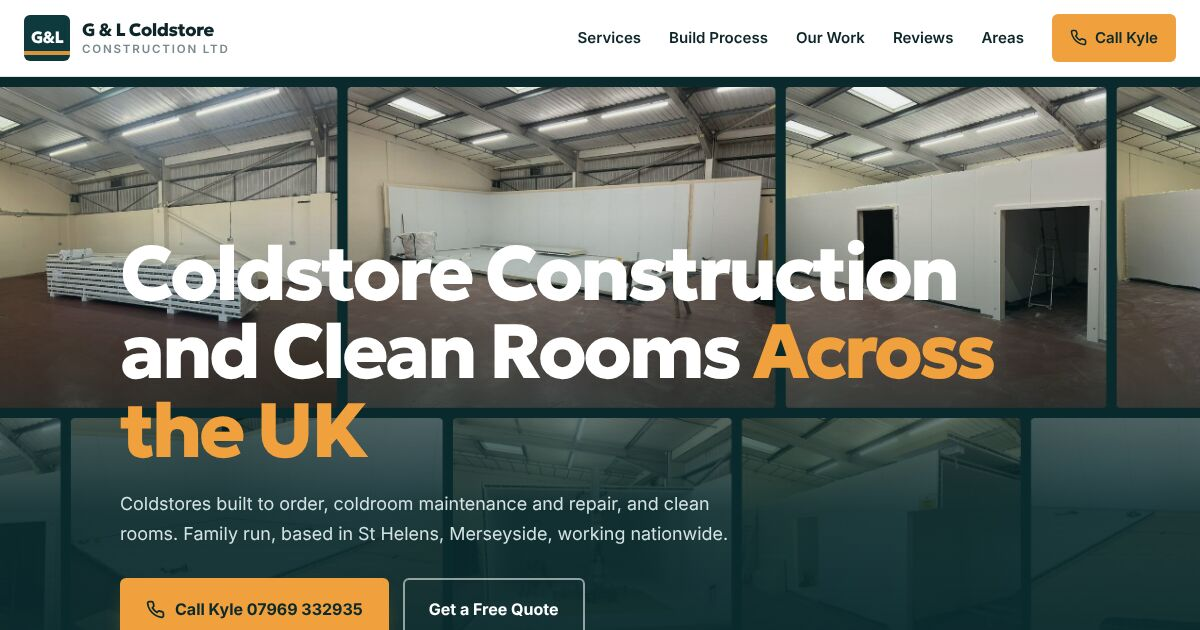
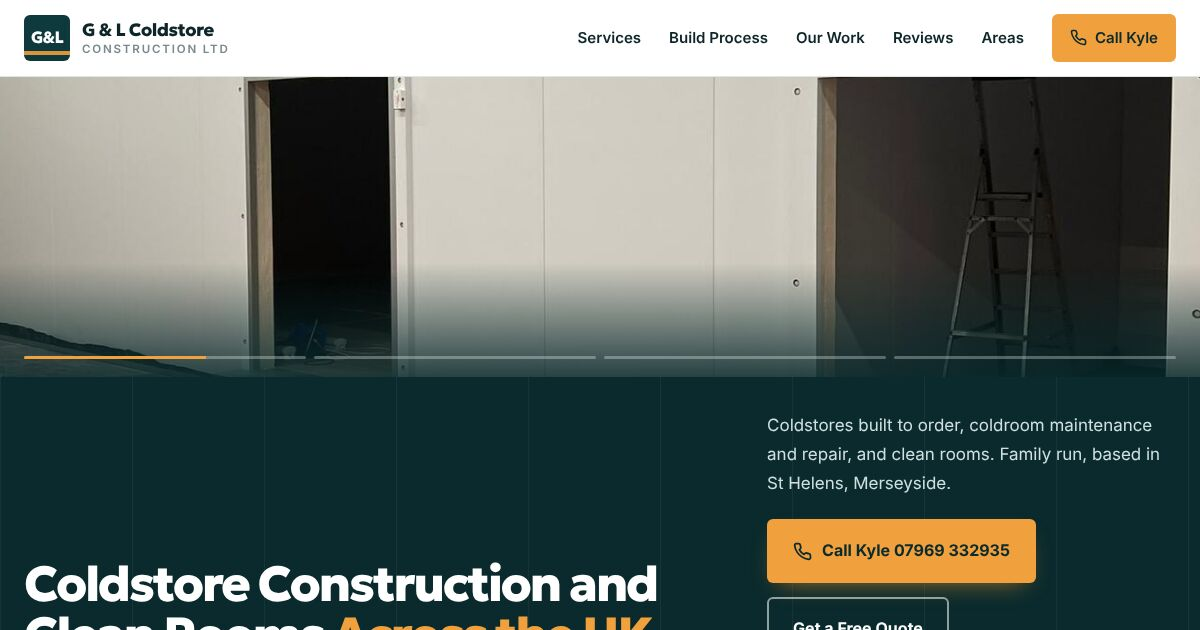
G & L Coldstore Construction: rebuild mockup B, restore ledger cleanup
B rebuilt on the current MOTION ROLL after master moved mid-build: the first B (marquee hero, gallery-fold) repeated Groundworks North West B.

SEED - G & L Coldstore Construction Ltd, St Helens (B)
Copy of A: same palette, Geologica / Inter, copy, sections and PANEL LOCK loader.
Hero:      crossfade, photo-first: four own build photos dissolve every 4.8s with a slow push-in and story bars, the big white keyword H1 and Call Kyle on a spruce panel under the photo
Bits:      pinned-steps (build process photo and step swap while pinned), trade-moment CAM LOCKED (insulated panels slide together, cam lock turns, frost forms on the cold side)
Ledger ok: crossfade + pinned-steps + trade-moment; photo-first clear of the last 5

Ledger: drop the light-speed-utilities-b and cutmate-b entries brought back by the previous publish of this job.

diff --git a/gl-coldstore-construction-b/index.html b/gl-coldstore-construction-b/index.html
@@ -125,32 +125,6 @@ html.ld #loader{display:flex}
 .hero-copy h1{animation-delay:.1s}.hero-copy p{animation-delay:.25s}.hero-copy .hero-ctas{animation-delay:.4s}
 html.ld .hero-copy > *{animation-play-state:paused}
 
-/* the coldstore doorway */
-.doorway{position:relative;height:100%;min-height:0;display:flex;flex-direction:column}
-.rail{height:16px;margin:0 -26px 0 0;border-radius:3px;background:linear-gradient(#fdfefe,#c6cfd3 55%,#9aa6ab);box-shadow:0 2px 0 rgba(15,38,41,.12);position:relative;z-index:3}
-.rail:before,.rail:after{content:"";position:absolute;top:4px;width:8px;height:8px;border-radius:50%;background:#7f8d92}
-.rail:before{left:18%}.rail:after{left:78%}
-.opening{position:relative;flex:1;min-height:0;border:12px solid #fff;outline:1px solid var(--line2);box-shadow:0 30px 60px -36px rgba(14,58,62,.55),inset 0 0 0 1px var(--line);border-radius:4px;overflow:hidden;background:var(--spruce2)}
-.opening img{width:100%;height:100%;object-fit:cover;transform:scale(1.08);transition:transform 2.4s cubic-bezier(.2,.7,.2,1) .2s}
-.door{position:absolute;inset:0;z-index:2;transform:translateX(0);transition:transform 1.5s cubic-bezier(.65,0,.25,1);
-  background:
-   linear-gradient(90deg,rgba(255,255,255,.0) 0,rgba(255,255,255,.35) 18%,rgba(255,255,255,0) 40%,rgba(255,255,255,.25) 72%,rgba(255,255,255,0) 100%),
-   repeating-linear-gradient(90deg,#e9edef 0 2px,#dfe5e8 2px 3px,#e6eaec 3px 5px),
-   #e4e9eb;border-left:1px solid #b8c2c6}
-.door:before{content:"";position:absolute;left:0;right:0;bottom:0;height:24%;border-top:2px solid #b4bec2;
-  background:
-   repeating-linear-gradient(45deg,transparent 0 9px,rgba(120,134,140,.45) 9px 11px,transparent 11px 20px),
-   repeating-linear-gradient(-45deg,transparent 0 9px,rgba(255,255,255,.55) 9px 11px,transparent 11px 20px),
-   linear-gradient(#cfd6d9,#b9c2c6)}
-.door .handle{position:absolute;left:22px;top:30%;width:12px;height:30%;border-radius:6px;background:linear-gradient(90deg,var(--amber-h),var(--amber) 45%,#ffc77d);box-shadow:3px 4px 10px -3px rgba(0,0,0,.35)}
-.door .seal{position:absolute;left:0;top:0;bottom:0;width:7px;background:#2c3a3d}
-.mist{position:absolute;left:-10%;right:-10%;bottom:-8%;height:40%;z-index:1;pointer-events:none;opacity:0;
-  background:radial-gradient(ellipse at 30% 80%,rgba(255,255,255,.75),transparent 60%),radial-gradient(ellipse at 70% 90%,rgba(255,255,255,.6),transparent 55%)}
-.hero.open .door{transform:translateX(90%)}
-.hero.open .opening img{transform:scale(1)}
-.hero.open .mist{animation:mist 3.2s .5s ease-out forwards}
-@keyframes mist{0%{opacity:0;transform:translateX(-12%) scaleY(.6)}35%{opacity:.85}100%{opacity:0;transform:translateX(10%) scaleY(1.15)}}
-
 /* trust */
 .trust{border-bottom:1px solid var(--line);background:#fff}
 .trust-in{display:grid;grid-template-columns:repeat(5,1fr);padding-top:26px;padding-bottom:26px}
@@ -282,51 +256,98 @@ footer a:hover{color:var(--amber)}
 .reveal{opacity:0;transform:translateY(30px);transition:opacity .7s,transform .7s}
 .reveal.in{opacity:1;transform:none}
 
-/* B hero: full bleed marquee of their build */
-.bhero{position:relative;min-height:calc(100svh - 76px);display:flex;flex-direction:column;justify-content:flex-end;overflow:hidden;background:var(--spruce2)}
-.mq{position:absolute;inset:0;display:flex;flex-direction:column;gap:10px;padding-top:10px}
-.mq-row{flex:1;min-height:0;overflow:hidden}
-.mq-track{display:flex;gap:10px;height:100%;width:max-content;animation:mqL 70s linear infinite}
-.r2 .mq-track{animation-name:mqR;animation-duration:80s}
-.mq-track i{height:100%;flex:0 0 auto;border-radius:4px;overflow:hidden}
-.mq-track img{height:100%;width:auto;display:block}
-.mq.paused .mq-track{animation-play-state:paused}
-html.ld .mq-track{animation-play-state:paused}
-@keyframes mqL{from{transform:translateX(0)}to{transform:translateX(-50%)}}
-@keyframes mqR{from{transform:translateX(-50%)}to{transform:translateX(0)}}
-.mq{opacity:0;transform:scale(1.06);transition:opacity 1s,transform 1.6s cubic-bezier(.2,.7,.2,1)}
-.bhero.open .mq{opacity:1;transform:none}
-.bh-shade{position:absolute;inset:0;pointer-events:none;background:linear-gradient(to top,#0a2a2d 0%,rgba(10,42,45,.9) 30%,rgba(10,42,45,.5) 52%,rgba(10,42,45,.12) 78%,rgba(10,42,45,.05) 100%)}
-.bh-copy{position:relative;z-index:2;padding-top:120px;padding-bottom:56px}
-.bh-copy h1{color:#fff;font-size:clamp(2.6rem,6.4vw,6rem);letter-spacing:-.045em;line-height:1.02;max-width:12.5em;margin-bottom:20px}
+/* ===== B: photo-first crossfade hero ===== */
+.bhero{background:var(--spruce2);display:flex;flex-direction:column}
+.xf{position:relative;height:max(300px,calc(100vh - 76px - 320px));overflow:hidden;background:var(--spruce2)}
+.xf img{position:absolute;inset:0;width:100%;height:100%;object-fit:cover;opacity:0;transform:scale(1.12);transition:opacity 1.3s ease}
+.xf img.on{opacity:1;animation:push 7s linear forwards}
+@keyframes push{from{transform:scale(1.12)}to{transform:scale(1)}}
+html.ld .xf img.on{animation-play-state:paused}
+.xf-shade{position:absolute;inset:0;background:linear-gradient(to top,rgba(10,42,45,.85),rgba(10,42,45,0) 38%);pointer-events:none}
+.xf-bars{position:absolute;left:0;right:0;bottom:18px;display:flex;gap:8px;max-width:1220px;margin:0 auto;padding:0 24px}
+.xf-bars i{flex:1;height:3px;background:rgba(255,255,255,.3);border-radius:2px;overflow:hidden;position:relative}
+.xf-bars i:after{content:"";position:absolute;inset:0;background:var(--amber);transform:scaleX(0);transform-origin:left}
+.xf-bars i.done:after{transform:none}
+.xf-bars i.on:after{animation:bar 4.8s linear forwards}
+html.ld .xf-bars i.on:after{animation-play-state:paused}
+@keyframes bar{to{transform:none}}
+.bh-panel{background:var(--spruce2);position:relative}
+.bh-panel:before{content:"";position:absolute;inset:0;background-image:linear-gradient(90deg,rgba(255,255,255,.05) 0 1px,transparent 1px);background-size:132px 100%;pointer-events:none}
+.bh-copy{position:relative;display:grid;grid-template-columns:1.7fr 1fr;gap:48px;align-items:end;padding-top:34px;padding-bottom:40px}
+.bh-copy h1{color:#fff;font-size:clamp(2.4rem,4.1vw,4rem);letter-spacing:-.045em;line-height:1.02}
 .bh-copy h1 .ac{color:var(--amber)}
-.bh-copy p{color:#d3e3e4;font-size:1.12rem;max-width:36em;margin-bottom:28px}
-.bh-copy > *{opacity:0;transform:translateY(26px);animation:fadeUp .8s forwards}
-.bh-copy h1{animation-delay:.1s}.bh-copy p{animation-delay:.3s}.bh-copy .hero-ctas{animation-delay:.45s}
+.bh-side p{color:#cfe0e1;margin-bottom:22px;font-size:1.06rem}
+.bh-copy > *{opacity:0;transform:translateY(24px);animation:fadeUp .8s forwards}
+.bh-copy .bh-side{animation-delay:.25s}
 html.ld .bh-copy > *{animation-play-state:paused}
-@media (min-width:881px){.bhero{min-height:max(86vh,620px)}.mq-row:first-child{flex:1.15}}
+/* ===== B: trade moment CAM LOCKED ===== */
+.tm{background:#fff;padding-top:70px;padding-bottom:10px}
+.tm-stage{position:relative;max-width:760px;margin:0 auto;padding:30px 0}
+.tm-panels{position:relative;height:84px}
+.tp{position:absolute;top:0;height:84px;width:50%;background:
+  linear-gradient(#dfe5e8 0 7px,transparent 7px calc(100% - 7px),#dfe5e8 calc(100% - 7px)),
+  radial-gradient(circle at 30% 40%,rgba(255,255,255,.35) 0 2px,transparent 2.5px) 0 0/14px 12px,
+  radial-gradient(circle at 70% 70%,rgba(154,90,11,.18) 0 2px,transparent 2.5px) 0 0/18px 16px,
+  linear-gradient(#f6c27a,#f0a03c)}
+.tp-l{left:0;border-radius:4px 0 0 4px;transform:translateX(-26%);transition:transform 1s cubic-bezier(.3,1.1,.4,1)}
+.tp-r{right:0;border-radius:0 4px 4px 0;transform:translateX(26%);transition:transform 1s cubic-bezier(.3,1.1,.4,1)}
+.tongue{position:absolute;right:-14px;top:26px;width:14px;height:32px;background:linear-gradient(#f6c27a,#f0a03c);border-radius:0 3px 3px 0}
+.groove{position:absolute;left:0;top:26px;width:14px;height:32px;background:#e4ebed;border-radius:0 3px 3px 0}
+.tm.go .tp-l,.tm.go .tp-r{transform:none}
+.cam{position:absolute;left:50%;top:50%;width:34px;height:34px;margin:-17px 0 0 -17px;border-radius:50%;background:var(--spruce);box-shadow:0 0 0 4px #fff;opacity:0;transform:scale(.4);transition:opacity .3s 1s,transform .35s 1s}
+.cam i{position:absolute;left:50%;top:50%;width:22px;height:5px;margin:-2.5px 0 0 -11px;background:var(--amber);border-radius:3px;transform:rotate(-90deg);transition:transform .45s 1.35s cubic-bezier(.4,1.6,.5,1)}
+.tm.go .cam{opacity:1;transform:none}
+.tm.go .cam i{transform:rotate(0)}
+.frost{height:14px;margin-top:6px;border-radius:3px;background:
+  radial-gradient(circle,#ffffff 0 1.5px,transparent 2px) 0 0/9px 7px,
+  linear-gradient(90deg,#cfe9f3,#e9f6fb 50%,#cfe9f3);clip-path:inset(0 100% 0 0);transition:clip-path 1.4s cubic-bezier(.4,0,.2,1) 1.8s}
+.tm.go .frost{clip-path:inset(0 0 0 0)}
+.tm-lab{display:block;font-size:.76rem;font-weight:700;letter-spacing:.16em;text-transform:uppercase;color:var(--muted);margin-bottom:10px}
+.tm-cold{margin:10px 0 0;text-align:right;color:#3f7d93}
+.tm-cap{text-align:center;color:var(--head);font-family:var(--disp);font-weight:700;font-size:1.15rem;margin-top:22px}
+/* ===== B: pinned steps ===== */
+.pin-wrap{height:340vh;position:relative}
+.pin{position:sticky;top:76px;height:calc(100vh - 76px);display:flex;align-items:center;overflow:hidden}
+.pin-grid{display:grid;grid-template-columns:.9fr 1.1fr;gap:56px;align-items:center;width:100%}
+.pin-text h2{margin-bottom:26px}
+.pin-list{list-style:none;display:grid;gap:6px}
+.pin-list li{display:flex;gap:16px;padding:14px 16px;border-radius:8px;opacity:.45;transition:opacity .4s,background .4s}
+.pin-list li.on{opacity:1;background:#fff;box-shadow:0 14px 30px -24px rgba(14,58,62,.5)}
+.pin-list .num{flex:0 0 36px;height:36px;border-radius:50%;background:var(--line);color:var(--head);display:grid;place-items:center;font-family:var(--disp);font-weight:800;transition:background .4s}
+.pin-list li.on .num{background:var(--amber);color:var(--spruce2)}
+.pin-list h3{margin-bottom:2px}
+.pin-list p{font-size:.95rem}
+.pin-bar{height:3px;background:var(--line);margin-top:18px;border-radius:2px;overflow:hidden}
+.pin-bar i{display:block;height:100%;background:var(--amber);transform:scaleX(0);transform-origin:left}
+.pin-figs{position:relative;aspect-ratio:4/3;border-radius:8px;overflow:hidden;border:1px solid var(--line);background:var(--spruce)}
+.pin-figs img{position:absolute;inset:0;width:100%;height:100%;object-fit:cover;opacity:0;transform:scale(1.06);transition:opacity .6s,transform 1.2s}
+.pin-figs img.on{opacity:1;transform:none}
+.rm-steps{display:none}
 @media (max-width:880px){
-  .mq{bottom:auto;gap:8px;padding-top:8px}
-  .mq-row{flex:none;height:min(30svh,230px)}
-  .mq-track{gap:8px}
+  .bh-copy{grid-template-columns:1fr;gap:16px;padding-top:24px;padding-bottom:40px}
+  .xf{height:min(46svh,420px)}
+  .pin-grid{grid-template-columns:1fr;gap:16px}
+  .pin-text{display:contents}
+  .pin-text h2{order:0;margin-bottom:0;font-size:1.75rem}
+  .pin-figs{order:1;aspect-ratio:16/11}
+  .pin-list{order:2}
+  .pin-bar{order:3;margin-top:4px}
+  .pin-list li{display:none;padding:4px 0;background:none!important;box-shadow:none!important}
+  .pin-list li.on{display:flex}
 }
 @media (max-width:560px){
-  .bh-copy{padding-top:90px;padding-bottom:36px}
-  .bh-copy h1{font-size:2.55rem}
-  .bh-copy p{font-size:1rem;line-height:1.6;margin-bottom:22px}
-  .hero-ctas .btn{padding:14px 20px}
+  .bh-copy h1{font-size:2.3rem}
+  .bh-side p{font-size:1rem;line-height:1.6;margin-bottom:18px}
+  .tm{padding-top:50px}
+  .tm-panels,.tp{height:64px}
+  .tongue,.groove{top:18px;height:28px;width:12px}
+  .tongue{right:-12px}
 }
-/* bit: tilt cards */
-.svc-grid{perspective:1100px}
-.svc.tilt{transition:transform .12s ease-out,box-shadow .25s;will-change:transform}
-.svc.tilt .svc-media img,.svc.tilt .svc-media svg{transition:transform .12s ease-out}
-/* bit: photo stack gallery */
-.gal .gi{transition:transform .9s cubic-bezier(.2,.8,.2,1),opacity .5s;position:relative}
-.gal.stacked .gi{transform:translate(var(--sx),var(--sy)) rotate(var(--sr));}
-.gal.stacked .gi figcaption{opacity:0}
-.gi figcaption{transition:opacity .5s .6s}
-.gal .gi figure{box-shadow:0 18px 30px -22px rgba(10,42,45,.6);background:#fff}
-@media (prefers-reduced-motion:reduce){.mq{opacity:1;transform:none}.gal.stacked .gi{transform:none}.gal.stacked .gi figcaption{opacity:1}.bh-copy > *{opacity:1;transform:none}}
+@media (prefers-reduced-motion:reduce){
+  .pin-wrap{display:none}.rm-steps{display:block}
+  .tp-l,.tp-r{transform:none}.cam{opacity:1;transform:none}.cam i{transform:none}.frost{clip-path:none}
+  .bh-copy > *{opacity:1;transform:none}
+}
 
 @media (max-width:1080px){
   .svc-grid{grid-template-columns:1fr 1fr}
@@ -412,17 +433,24 @@ html.ld .bh-copy > *{animation-play-state:paused}
 
 <main>
 <section class="bhero" id="hero">
-  <div class="mq" id="mq" aria-hidden="true">
-    <div class="mq-row r1"><div class="mq-track"><i><img src="mq-1.jpg" alt=""></i><i><img src="mq-2.jpg" alt=""></i><i><img src="mq-3.jpg" alt=""></i><i><img src="mq-4.jpg" alt=""></i><i><img src="mq-5.jpg" alt=""></i><i><img src="mq-1.jpg" alt=""></i><i><img src="mq-2.jpg" alt=""></i><i><img src="mq-3.jpg" alt=""></i><i><img src="mq-4.jpg" alt=""></i><i><img src="mq-5.jpg" alt=""></i></div></div>
-    <div class="mq-row r2"><div class="mq-track"><i><img src="mq-6.jpg" alt=""></i><i><img src="mq-7.jpg" alt=""></i><i><img src="mq-8.jpg" alt=""></i><i><img src="mq-9.jpg" alt=""></i><i><img src="mq-3.jpg" alt=""></i><i><img src="mq-6.jpg" alt=""></i><i><img src="mq-7.jpg" alt=""></i><i><img src="mq-8.jpg" alt=""></i><i><img src="mq-9.jpg" alt=""></i><i><img src="mq-3.jpg" alt=""></i></div></div>
+  <div class="xf" id="xf">
+    <img class="on" src="work-1.jpg" alt="Finished G &amp; L coldstore walls with two framed door openings" fetchpriority="high">
+    <img src="svc-coldstore.jpg" alt="Coldstore with wall panels up and ceiling panels going on" loading="lazy">
+    <img src="step-3.jpg" alt="White insulated wall panels standing around the coldstore floor" loading="lazy">
+    <img src="hero.jpg" alt="Inside a finished G &amp; L coldstore" loading="lazy">
+    <div class="xf-shade" aria-hidden="true"></div>
+    <div class="xf-bars" aria-hidden="true"><i class="on"></i><i></i><i></i><i></i></div>
   </div>
-  <div class="bh-shade" aria-hidden="true"></div>
-  <div class="wrap bh-copy">
-    <h1>Coldstore Construction and Clean Rooms <span class="ac">Across the UK</span></h1>
-    <p>Coldstores built to order, coldroom maintenance and repair, and clean rooms. Family run, based in St Helens, Merseyside, working nationwide.</p>
-    <div class="hero-ctas" id="heroCtas">
-      <a class="btn btn-amber js-call" href="#"><svg viewBox="0 0 24 24" fill="none" stroke="#0a2a2d" stroke-width="2.2" stroke-linecap="round" stroke-linejoin="round"><path d="M22 16.9v3a2 2 0 0 1-2.2 2 19.8 19.8 0 0 1-8.6-3.1 19.5 19.5 0 0 1-6-6A19.8 19.8 0 0 1 2.1 4.2 2 2 0 0 1 4.1 2h3a2 2 0 0 1 2 1.7c.1.9.4 1.8.7 2.7a2 2 0 0 1-.5 2.1L8 9.8a16 16 0 0 0 6 6l1.3-1.3a2 2 0 0 1 2.1-.5c.9.3 1.8.6 2.7.7a2 2 0 0 1 1.7 2z"/></svg><span class="js-phone">Call Kyle</span></a>
-      <a class="btn btn-ghost" href="#contact">Get a Free Quote</a>
+  <div class="bh-panel">
+    <div class="wrap bh-copy">
+      <h1>Coldstore Construction and Clean Rooms <span class="ac">Across the UK</span></h1>
+      <div class="bh-side">
+        <p>Coldstores built to order, coldroom maintenance and repair, and clean rooms. Family run, based in St Helens, Merseyside.</p>
+        <div class="hero-ctas" id="heroCtas">
+          <a class="btn btn-amber js-call" href="#"><svg viewBox="0 0 24 24" fill="none" stroke="#0a2a2d" stroke-width="2.2" stroke-linecap="round" stroke-linejoin="round"><path d="M22 16.9v3a2 2 0 0 1-2.2 2 19.8 19.8 0 0 1-8.6-3.1 19.5 19.5 0 0 1-6-6A19.8 19.8 0 0 1 2.1 4.2 2 2 0 0 1 4.1 2h3a2 2 0 0 1 2 1.7c.1.9.4 1.8.7 2.7a2 2 0 0 1-.5 2.1L8 9.8a16 16 0 0 0 6 6l1.3-1.3a2 2 0 0 1 2.1-.5c.9.3 1.8.6 2.7.7a2 2 0 0 1 1.7 2z"/></svg><span class="js-phone">Call Kyle</span></a>
+          <a class="btn btn-ghost" href="#contact">Get a Free Quote</a>
+        </div>
+      </div>
     </div>
   </div>
 </section>
@@ -437,11 +465,27 @@ html.ld .bh-copy > *{animation-play-state:paused}
   </div>
 </section>
 
+<section class="tm" aria-label="Insulated panels cam locked together">
+  <div class="wrap">
+    <div class="tm-stage" id="tm">
+      <span class="tm-lab tm-warm">Warm side</span>
+      <div class="tm-panels">
+        <div class="tp tp-l"><i class="tongue"></i></div>
+        <div class="tp tp-r"><i class="groove"></i></div>
+        <div class="cam"><i></i></div>
+      </div>
+      <div class="frost"></div>
+      <span class="tm-lab tm-cold">Cold side</span>
+    </div>
+    <p class="tm-cap">Insulated panels cam locked together at every joint.</p>
+  </div>
+</section>
+
 <section id="services" class="sec" style="padding-bottom:40px">
   <div class="wrap">
     <h2 class="reveal">Coldstore and Clean Room <span class="ac">Services</span></h2>
     <div class="svc-grid">
-      <article class="svc tilt reveal">
+      <article class="svc reveal">
         <div class="svc-media"><img src="svc-coldstore.jpg" alt="Coldstore under construction with wall panels up and ceiling panels being fitted" loading="lazy"></div>
         <div class="svc-body">
           <h3>Coldstore Design and Construction</h3>
@@ -449,7 +493,7 @@ html.ld .bh-copy > *{animation-play-state:paused}
           <ul><li>Chiller rooms</li><li>Freezer rooms</li><li>Insulated panel builds</li></ul>
         </div>
       </article>
-      <article class="svc tilt reveal">
+      <article class="svc reveal">
         <div class="svc-media svc-panel"><svg viewBox="0 0 80 80" fill="none" stroke="#f0a03c" stroke-width="3.4" stroke-linecap="round" stroke-linejoin="round"><path d="M52 14a14 14 0 0 0-17 17L14 52a6 6 0 0 0 8.5 8.5L43.5 39.5A14 14 0 0 0 61 22l-8 8-8-2-2-8z"/><path d="M58 50v16M50 58h16" stroke="#ffffff"/></svg></div>
         <div class="svc-body">
           <h3>Coldroom Maintenance and Repair</h3>
@@ -457,7 +501,7 @@ html.ld .bh-copy > *{animation-play-state:paused}
           <ul><li>Maintenance checks</li><li>Prompt repairs</li><li>Existing coldrooms</li></ul>
         </div>
       </article>
-      <article class="svc tilt reveal">
+      <article class="svc reveal">
         <div class="svc-media svc-panel"><svg viewBox="0 0 80 80" fill="none" stroke="#f0a03c" stroke-width="3.4" stroke-linecap="round" stroke-linejoin="round"><rect x="14" y="14" width="52" height="52" rx="3"/><path d="M14 30h52" stroke="#ffffff"/><path d="M24 22h4M34 22h4M44 22h4" stroke="#ffffff"/><path d="M30 66V44h20v22"/></svg></div>
         <div class="svc-body">
           <h3>Clean Rooms</h3>
@@ -479,9 +523,21 @@ html.ld .bh-copy > *{animation-play-state:paused}
   </div>
 </section>
 
-<section id="process" class="sec stone">
-  <div class="wrap">
-    <h2 class="reveal">Coldstore Build <span class="ac">Process</span></h2>
+<section id="process" class="stone">
+  <div class="pin-wrap" id="pinWrap">
+    <div class="pin">
+      <div class="wrap pin-grid">
+        <div class="pin-text">
+          <h2>Coldstore Build <span class="ac">Process</span></h2>
+          <ol class="pin-list" id="pinList"><li class="on"><span class="num">1</span><div><h3>Panel Delivery</h3><p>Insulated wall and ceiling panels delivered and stacked in the unit.</p></div></li><li><span class="num">2</span><div><h3>Floor Insulation</h3><p>Insulation boards laid across the floor and floor panels set out.</p></div></li><li><span class="num">3</span><div><h3>Wall Panels</h3><p>Wall panels stood up and locked together around the floor.</p></div></li><li><span class="num">4</span><div><h3>Ceiling Panels</h3><p>Ceiling panels lifted into place and the room closed in.</p></div></li></ol>
+          <div class="pin-bar"><i id="pinBar"></i></div>
+        </div>
+        <div class="pin-figs" id="pinFigs"><img src="step-1.jpg" alt="Insulated panels stacked on pallets inside an empty warehouse unit" loading="lazy" class="on"><img src="step-2.jpg" alt="Floor insulation boards laid out with the first white floor panels in place" loading="lazy"><img src="step-3.jpg" alt="White insulated wall panels standing around the new coldstore floor" loading="lazy"><img src="step-4.jpg" alt="Panel lift inside the coldstore with the ceiling panels fitted" loading="lazy"></div>
+      </div>
+    </div>
+  </div>
+  <div class="sec rm-steps"><div class="wrap">
+    
     <div class="steps">
       <div class="step reveal"><span class="num">1</span><figure><img src="step-1.jpg" alt="Insulated panels stacked on pallets inside an empty warehouse unit" loading="lazy"></figure><h3>Panel Delivery</h3><p>Insulated wall and ceiling panels delivered and stacked in the unit.</p></div>
       <div class="step reveal"><span class="num">2</span><figure><img src="step-2.jpg" alt="Floor insulation boards laid out with the first white floor panels in place" loading="lazy"></figure><h3>Floor Insulation</h3><p>Insulation boards laid across the floor and floor panels set out.</p></div>
@@ -489,16 +545,17 @@ html.ld .bh-copy > *{animation-play-state:paused}
       <div class="step reveal"><span class="num">4</span><figure><img src="step-4.jpg" alt="Panel lift inside the coldstore with the ceiling panels fitted" loading="lazy"></figure><h3>Ceiling Panels</h3><p>Ceiling panels lifted into place and the room closed in.</p></div>
     </div>
   </div>
+</div>
 </section>
 
 <section id="work" class="sec">
   <div class="wrap">
     <h2 class="reveal">Recent Coldstore <span class="ac">Work</span></h2>
-    <div class="gal" id="gal">
-      <div class="gi"><figure><img src="work-1.jpg" alt="Finished coldstore walls with two framed door openings" loading="lazy"></figure><figcaption>Wall panels with framed door openings</figcaption></div>
-      <div class="gi"><figure><img src="work-2.jpg" alt="Coldstore enclosure with ceiling panels and a door opening" loading="lazy"></figure><figcaption>Enclosure with ceiling panels on</figcaption></div>
-      <div class="gi"><figure><img src="work-3.jpg" alt="Floor insulation boards being set out inside the coldstore" loading="lazy"></figure><figcaption>Floor insulation being set out</figcaption></div>
-      <div class="gi"><figure><img src="work-4.jpg" alt="Coldroom with a sliding door and chequer plate wall protection" loading="lazy"></figure><figcaption>Coldroom with sliding door and chequer plate</figcaption></div>
+    <div class="gal">
+      <div class="gi reveal"><figure><img src="work-1.jpg" alt="Finished coldstore walls with two framed door openings" loading="lazy"></figure><figcaption>Wall panels with framed door openings</figcaption></div>
+      <div class="gi reveal"><figure><img src="work-2.jpg" alt="Coldstore enclosure with ceiling panels and a door opening" loading="lazy"></figure><figcaption>Enclosure with ceiling panels on</figcaption></div>
+      <div class="gi reveal"><figure><img src="work-3.jpg" alt="Floor insulation boards being set out inside the coldstore" loading="lazy"></figure><figcaption>Floor insulation being set out</figcaption></div>
+      <div class="gi reveal"><figure><img src="work-4.jpg" alt="Coldroom with a sliding door and chequer plate wall protection" loading="lazy"></figure><figcaption>Coldroom with sliding door and chequer plate</figcaption></div>
     </div>
   </div>
 </section>
@@ -616,11 +673,6 @@ html.ld .bh-copy > *{animation-play-state:paused}
   var rm = window.matchMedia('(prefers-reduced-motion: reduce)').matches;
   var ld = document.getElementById('loader'), hero = document.getElementById('hero');
   function openDoor(){ hero.classList.add('open'); }
-  var mq = document.getElementById('mq');
-  mq.parentNode.addEventListener('touchstart', function(){ mq.classList.add('paused'); }, {passive:true});
-  mq.parentNode.addEventListener('touchend', function(){ mq.classList.remove('paused'); });
-  mq.parentNode.addEventListener('mouseenter', function(){ mq.classList.add('paused'); });
-  mq.parentNode.addEventListener('mouseleave', function(){ mq.classList.remove('paused'); });
   function lift(){
     if (ld && !ld.classList.contains('done')){
       ld.classList.add('done');
@@ -632,44 +684,30 @@ html.ld .bh-copy > *{animation-play-state:paused}
   setTimeout(lift, 2500);
   setTimeout(openDoor, 2900);
 
-  // tilt cards: lift and tilt with pointer or thumb, photo shifts inside
-  if (!rm){
-    document.querySelectorAll('.svc.tilt').forEach(function(c){
-      var m = c.querySelector('.svc-media img, .svc-media svg');
-      function mv(x, y){
-        var r = c.getBoundingClientRect(), px = (x - r.left) / r.width - .5, py = (y - r.top) / r.height - .5;
-        c.style.transform = 'translateY(-4px) rotateX(' + (-py * 7).toFixed(2) + 'deg) rotateY(' + (px * 9).toFixed(2) + 'deg)';
-        if (m) m.style.transform = 'scale(1.08) translate(' + (-px * 14).toFixed(1) + 'px,' + (-py * 10).toFixed(1) + 'px)';
-      }
-      function reset(){ c.style.transform = ''; if (m) m.style.transform = ''; }
-      c.addEventListener('pointermove', function(e){ if (e.pointerType === 'mouse') mv(e.clientX, e.clientY); });
-      c.addEventListener('pointerleave', reset);
-      c.addEventListener('touchstart', function(e){ var t = e.touches[0]; mv(t.clientX, t.clientY); }, {passive:true});
-      c.addEventListener('touchmove', function(e){ var t = e.touches[0]; mv(t.clientX, t.clientY); }, {passive:true});
-      c.addEventListener('touchend', reset);
-    });
+  // crossfade hero with story bars
+  var xi = [].slice.call(document.querySelectorAll('#xf img')), xb = [].slice.call(document.querySelectorAll('.xf-bars i')), xc = 0;
+  function xgo(n){
+    xi[xc].classList.remove('on'); xb[xc].classList.remove('on'); xb[xc].classList.add('done');
+    if (n === 0) xb.forEach(function(b){ b.classList.remove('done'); });
+    xc = n; void xi[xc].offsetWidth; xi[xc].classList.add('on'); xb[xc].classList.add('on');
   }
-  // photo stack: gallery photos sit in a stack and fan out into the grid as it scrolls in
-  var gal = document.getElementById('gal');
-  if (!rm && 'IntersectionObserver' in window){
-    function stack(){
-      var g = gal.getBoundingClientRect(), cx = g.left + g.width / 2, cy = g.top + Math.min(g.height, 360) / 2;
-      var rots = [-7, 5, -3, 8];
-      gal.querySelectorAll('.gi').forEach(function(it, i){
-        it.style.transform = 'none';
-        var r = it.querySelector('figure').getBoundingClientRect();
-        it.style.transform = '';
-        it.style.setProperty('--sx', (cx - (r.left + r.width / 2)).toFixed(0) + 'px');
-        it.style.setProperty('--sy', (cy - (r.top + r.height / 2)).toFixed(0) + 'px');
-        it.style.setProperty('--sr', rots[i % 4] + 'deg');
-        it.style.zIndex = 10 - i;
-        it.style.transitionDelay = (i * .09) + 's';
-      });
-    }
-    gal.classList.add('stacked'); stack();
-    var gio = new IntersectionObserver(function(es){ if (es[0].isIntersecting){ gal.classList.remove('stacked'); gio.disconnect(); } }, { rootMargin: '0px 0px -42% 0px' });
-    gio.observe(gal);
+  if (!rm){ setTimeout(function(){ setInterval(function(){ xgo((xc + 1) % xi.length); }, 4800); }, 1900); }
+  // trade moment: panels cam lock together, plays once on view
+  var tmS = document.querySelector('.tm');
+  if ('IntersectionObserver' in window && !rm){
+    var tio = new IntersectionObserver(function(e){ if (e[0].isIntersecting){ tmS.classList.add('go'); tio.disconnect(); } }, { rootMargin: '0px 0px -25% 0px' });
+    tio.observe(tmS);
+  } else { tmS.classList.add('go'); }
+  // pinned steps: the photo and step change while the section is pinned
+  var pw = document.getElementById('pinWrap'), pf = [].slice.call(document.querySelectorAll('#pinFigs img')), pl = [].slice.call(document.querySelectorAll('#pinList li')), pb = document.getElementById('pinBar'), pc = 0;
+  function pinTick(){
+    var r = pw.getBoundingClientRect(), span = pw.offsetHeight - (window.innerHeight - 76);
+    var pr = Math.min(1, Math.max(0, (76 - r.top) / span));
+    var n = Math.min(pf.length - 1, Math.floor(pr * pf.length * 0.999));
+    pb.style.transform = 'scaleX(' + pr.toFixed(3) + ')';
+    if (n !== pc){ pf[pc].classList.remove('on'); pl[pc].classList.remove('on'); pc = n; pf[pc].classList.add('on'); pl[pc].classList.add('on'); }
   }
+  if (!rm){ window.addEventListener('scroll', function(){ requestAnimationFrame(pinTick); }, { passive: true }); pinTick(); }
 
   var t = document.getElementById('navToggle'), l = document.getElementById('navLinks');
   function setMenu(open){
